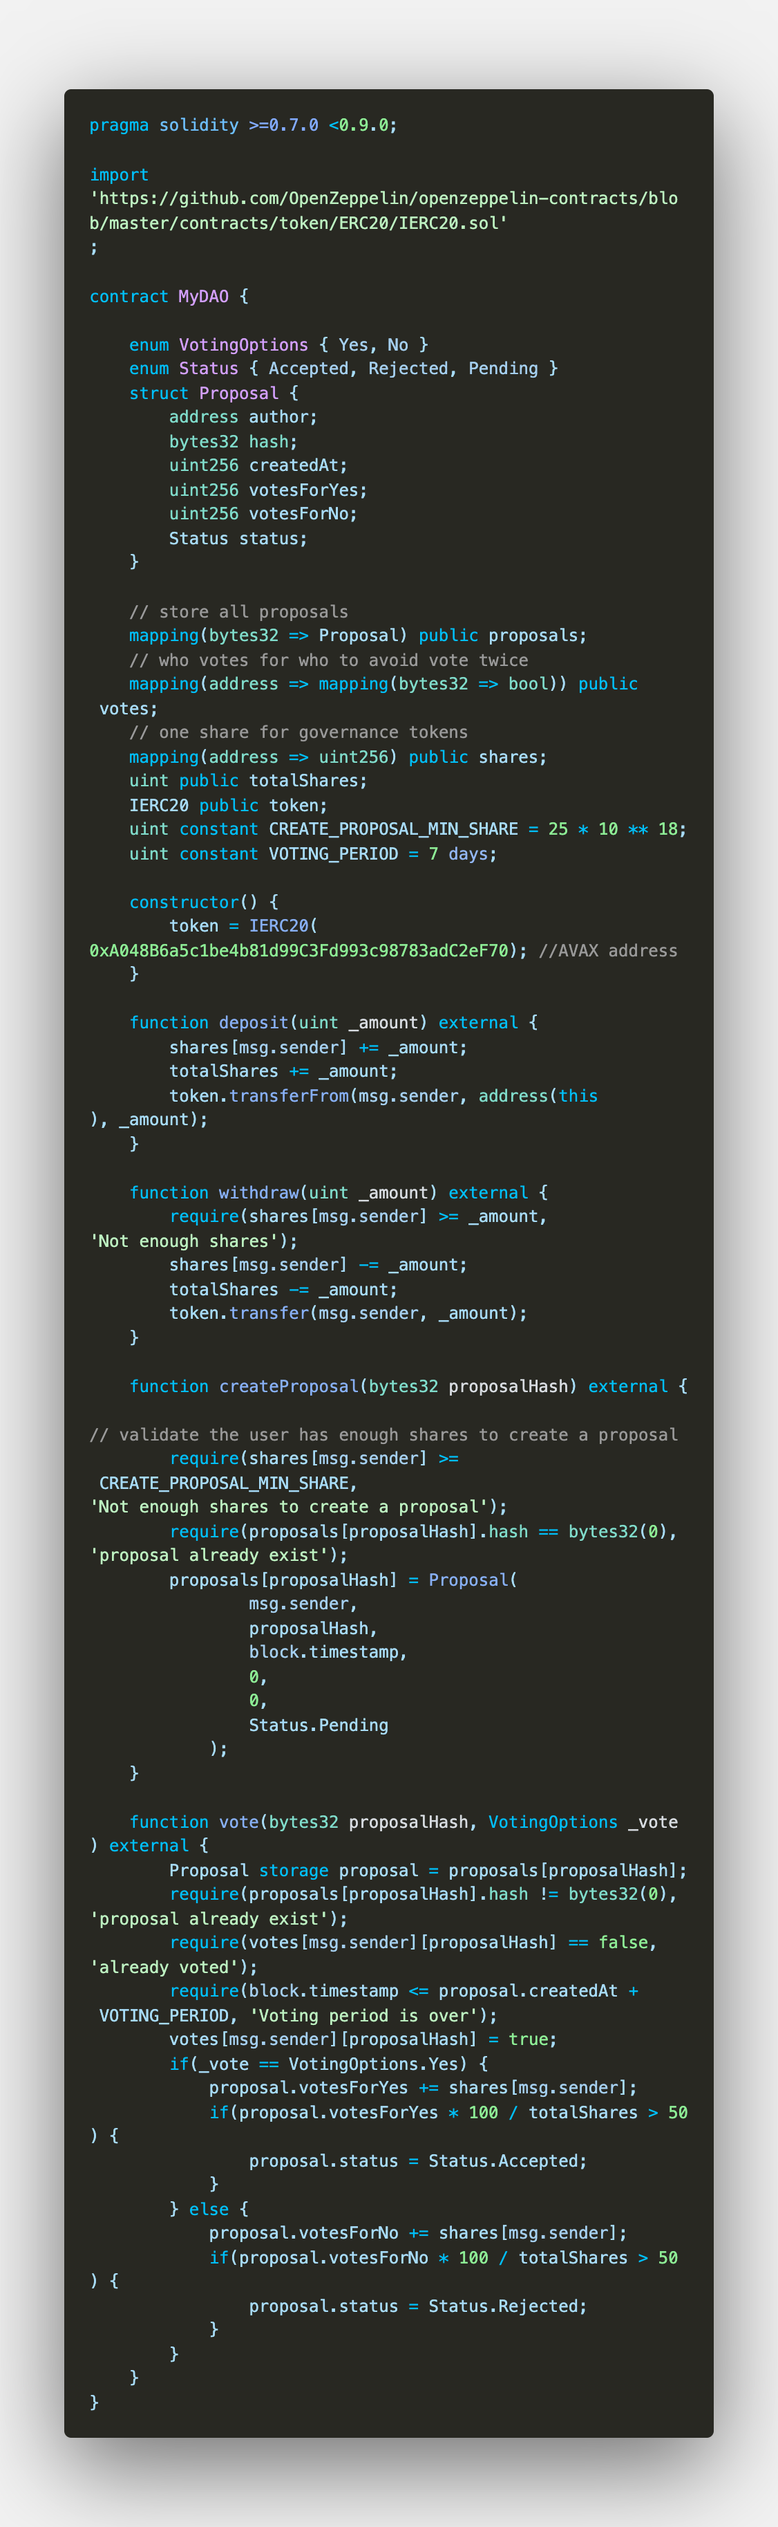
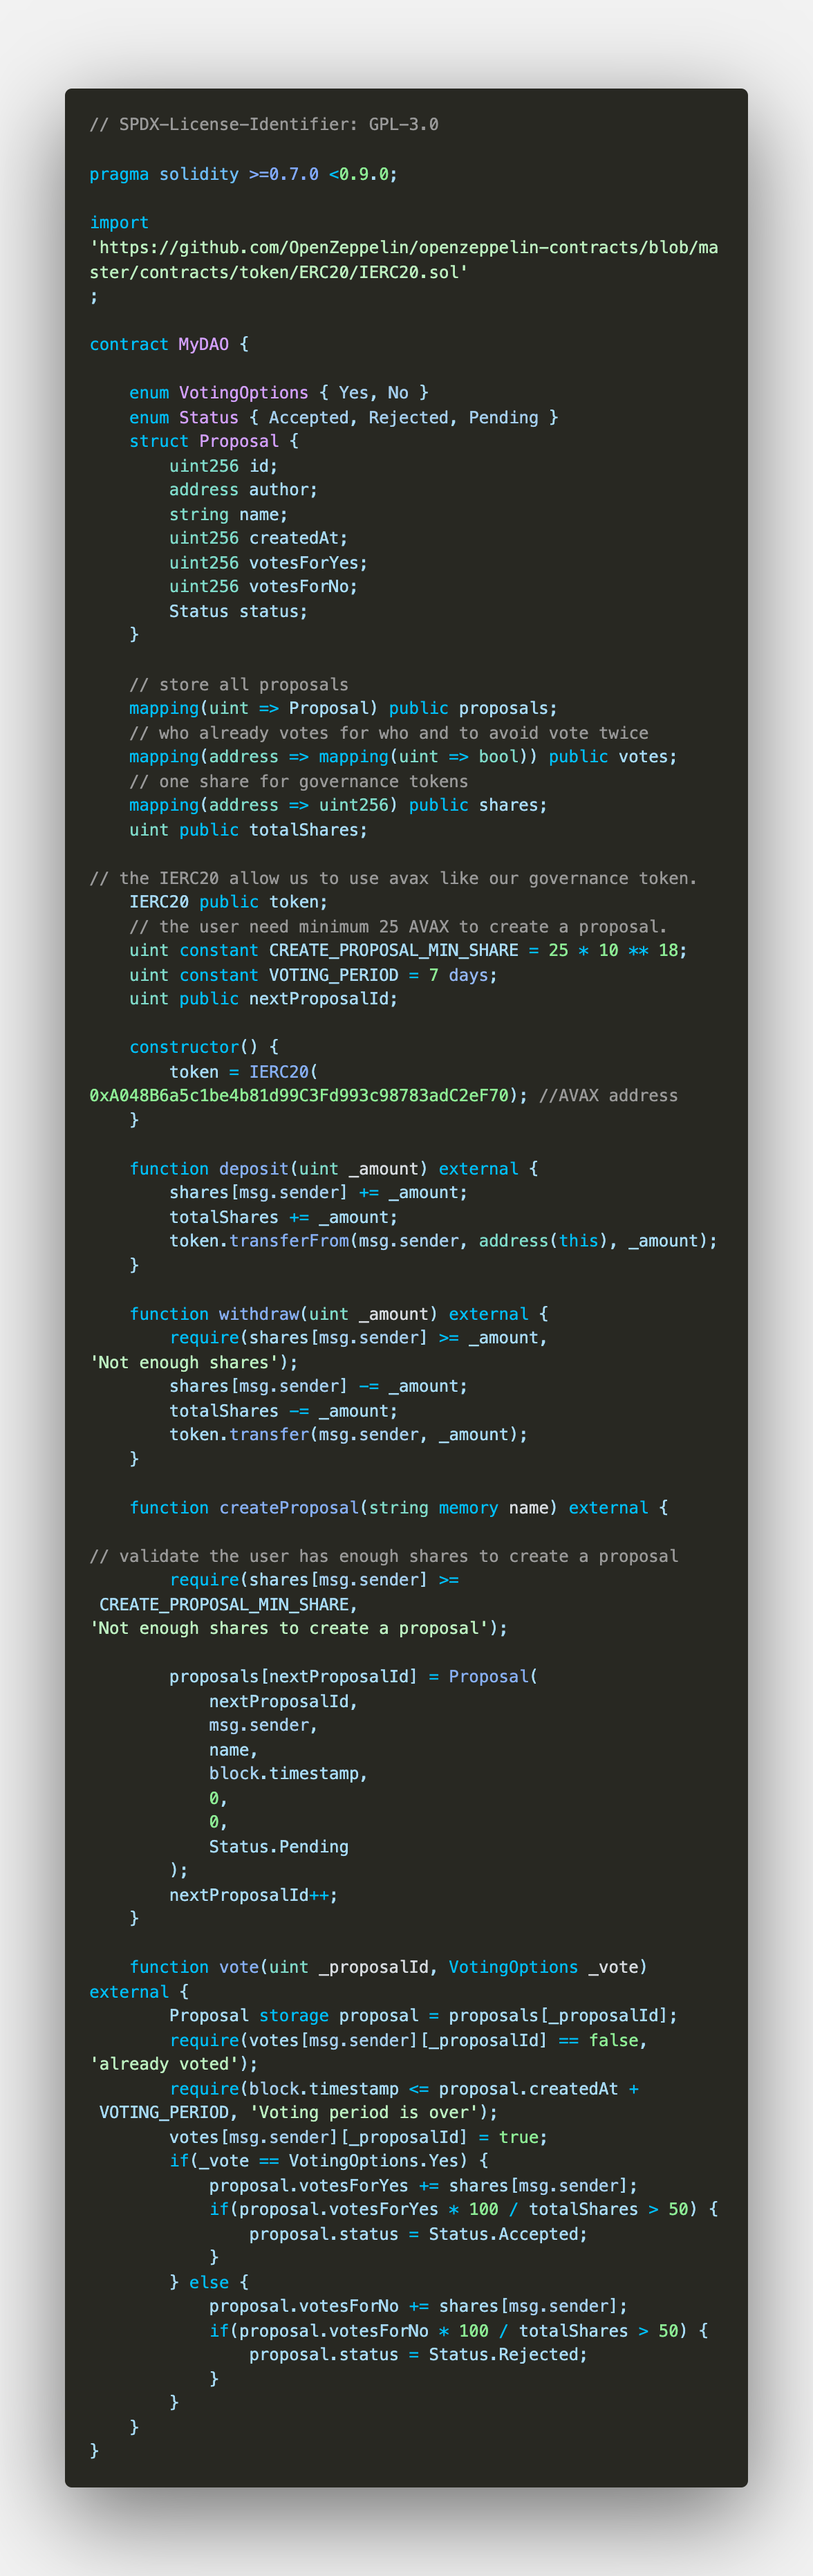
add: step 5 & 6

diff --git a/README.md b/README.md
@@ -29,7 +29,7 @@ For example if you have a hundred of the governance tokens but you deposited onl
 
 On REMIX we click the new file icon and put some name, in my case my file name is `MyDAO.sol`
 
-![New file](assets/newFile-Dao.png)
+<img src="assets/newFile-Dao.png" width="800">
 
 and we add the basic lines of code:
 
@@ -37,8 +37,7 @@ and we add the basic lines of code:
 `pragma` Specifies that the source code is written for Solidity version 0.7.0 or a newer version of the language up to, but not including version 0.9.0.  
 `contract MyDAO {...}` specifies the name and a new block of code for our contract.
 ``
-
-![firstLines](assets/firstLines.png)
+<img src="assets/firstLines.png" width="800">
 
 ### Step 2: Defining our DAO functions
 
@@ -59,7 +58,8 @@ and we need import IERC20 template from [openzeppelin](https://openzeppelin.com/
 For the proposal format we defined a group with custom properties, the properties for our proposal are:
 
 * Author which is an address from the account that create a proposal.
-* Hash that will help us to identify a proposal.
+* Id that will help us to identify a proposal.
+* Name of the proposal.
 * Creation date, that allow us to set a period of time for allow the voting.
 * Voting options, in this case we will keep it simple(Yes / NO).  
 * Number of Votes for Yes and Votes for No this will allow us set an status for the proposal when number of votes for any option be greater than fifty percent.
@@ -77,8 +77,9 @@ for the other proposal properties we can use an `struct` type.
 
 ```moonscript
     struct Proposal {
+        uint256 id;
         address author;
-        bytes32 hash;
+        string name;
         uint256 createdAt;
         uint256 votesForYes;
         uint256 votesForNo;
@@ -100,8 +101,9 @@ contract MyDAO {
     enum VotingOptions { Yes, No }
     enum Status { Accepted, Rejected, Pending }
     struct Proposal {
+        uint256 id;
         address author;
-        bytes32 hash;
+        string name;
         uint256 createdAt;
         uint256 votesForYes;
         uint256 votesForNo;
@@ -115,9 +117,9 @@ Now we need to store all the proposals created for our DAO, we need to be sure t
 
 ```
 // store all proposals
-mapping(bytes32 => Proposal) public proposals;
+mapping(uint => Proposal) public proposals;
 // who already votes for who and to avoid vote twice
-mapping(address => mapping(bytes32 => bool)) public votes;
+mapping(address => mapping(uint => bool)) public votes;
 // one share for governance tokens
 mapping(address => uint256) public shares;
 uint public totalShares;
@@ -126,6 +128,7 @@ IERC20 public token;
 // the user need minimum 25 AVAX to create a proposal.
 uint constant CREATE_PROPOSAL_MIN_SHARE = 25 * 10 ** 18;
 uint constant VOTING_PERIOD = 7 days;
+uint public nextProposalId;
 ```
 
 ### Step 4: Deposit and Withdraw function for the DAO
@@ -173,8 +176,9 @@ contract MyDAO {
     enum VotingOptions { Yes, No }
     enum Status { Accepted, Rejected, Pending }
     struct Proposal {
+        uint256 id;
         address author;
-        bytes32 hash;
+        string name;
         uint256 createdAt;
         uint256 votesForYes;
         uint256 votesForNo;
@@ -182,15 +186,18 @@ contract MyDAO {
     }
 
     // store all proposals
-    mapping(bytes32 => Proposal) public proposals;
-    // who votes for who to avoid vote twice
-    mapping(address => mapping(bytes32 => bool)) public votes;
+    mapping(uint => Proposal) public proposals;
+    // who already votes for who and to avoid vote twice
+    mapping(address => mapping(uint => bool)) public votes;
     // one share for governance tokens
     mapping(address => uint256) public shares;
     uint public totalShares;
+    // the IERC20 allow us to use avax like our governance token.
     IERC20 public token;
+    // the user need minimum 25 AVAX to create a proposal.
     uint constant CREATE_PROPOSAL_MIN_SHARE = 25 * 10 ** 18;
     uint constant VOTING_PERIOD = 7 days;
+    uint public nextProposalId;
     
     constructor() {
         token = IERC20(0xA048B6a5c1be4b81d99C3Fd993c98783adC2eF70); // AVAX address
@@ -213,34 +220,35 @@ contract MyDAO {
 
 ### Step 5: Create a Proposal and Vote functions
 
-For our `createProposal` function we will add the condition that if the user does not have minimum 25 AVAX tokens He cannot create a new proposal, and validate if the proposal exist.
+For our `createProposal` function we will add the condition that if the user does not have minimum 25 AVAX tokens He cannot create a new proposal.
 
 ```moonscript
-function createProposal(bytes32 proposalHash) external {
+function createProposal(string memory name) external {
     // validate the user has enough shares to create a proposal
     require(shares[msg.sender] >= CREATE_PROPOSAL_MIN_SHARE, 'Not enough shares to create a proposal');
-    require(proposals[proposalHash].hash == bytes32(0), 'proposal already exist');
-    proposals[proposalHash] = Proposal(
-            msg.sender,
-            proposalHash,
-            block.timestamp,
-            0,
-            0,
-            Status.Pending
-        );
+    
+    proposals[nextProposalId] = Proposal(
+        nextProposalId,
+        msg.sender,
+        name,
+        block.timestamp,
+        0,
+        0,
+        Status.Pending
+    );
+    nextProposalId++;
 }
 ```
 
-For the `Vote` function we need to receive the hash for the proposal and the vote choice, we will validate that the user has not voted already and the vote period is currently open.  
+For the `Vote` function we need to receive the id for the proposal and the vote choice, we will validate that the user has not voted already and the vote period is currently open.  
 Also we validate if the proposal has more than fifty percent of votes in one option we need to change the proposal status to Accepted or Rejected.
 
 ```moonscript
-function vote(bytes32 proposalHash, VotingOptions _vote) external {
-    Proposal storage proposal = proposals[proposalHash];
-    require(proposals[proposalHash].hash != bytes32(0), 'proposal already exist');
-    require(votes[msg.sender][proposalHash] == false, 'already voted');
+function vote(uint _proposalId, VotingOptions _vote) external {
+    Proposal storage proposal = proposals[_proposalId];
+    require(votes[msg.sender][_proposalId] == false, 'already voted');
     require(block.timestamp <= proposal.createdAt + VOTING_PERIOD, 'Voting period is over');
-    votes[msg.sender][proposalHash] = true;
+    votes[msg.sender][_proposalId] = true;
     if(_vote == VotingOptions.Yes) {
         proposal.votesForYes += shares[msg.sender];
         if(proposal.votesForYes * 100 / totalShares > 50) {
@@ -257,6 +265,26 @@ function vote(bytes32 proposalHash, VotingOptions _vote) external {
 
 Finally our DAO contract looks like this.
 
-![daoSC](assets/daoSC.png)
+<img src="assets/daoSC.png" width="850">
 
 ### Step 6: Deploy our DAO contract on FUJI
+
+Now we need compile our contract, I'm using the 0.8.0 version compiler, and click on the `Compile` button.
+
+<img src="assets/compiler.png" width="350">
+
+In the environment section we choose the `Injected Web3` option, in account we chose an account from our metamask plugin in the FUJI network, make sure that your account have the necessary avax for the deploy and the minimum for create a proposal.   
+[Here you can find the Faucet](https://faucet.avax-test.network/).  
+Click on the `Deploy` button and confirm the transaction in REMIX and Metamask and await for a few seconds.  
+
+<img src="assets/deploySc.png" width="350">
+
+<img src="assets/confirmDeploy.png" width="650">
+
+<img src="assets/metamask.png" width="300">
+
+If the contract is deployed successfully on FUJI we can see the succes transaction on the REMIX inspector.
+
+<img src="assets/remixTx.png" width="650">
+
+Now we can test the different functions for our DAO.
